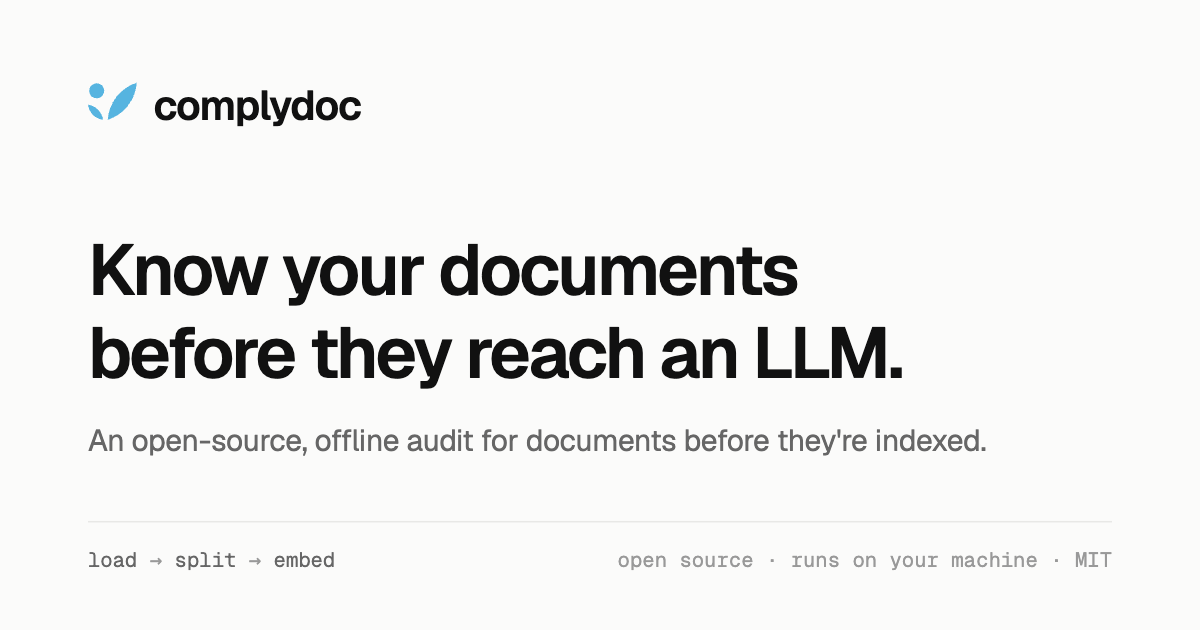
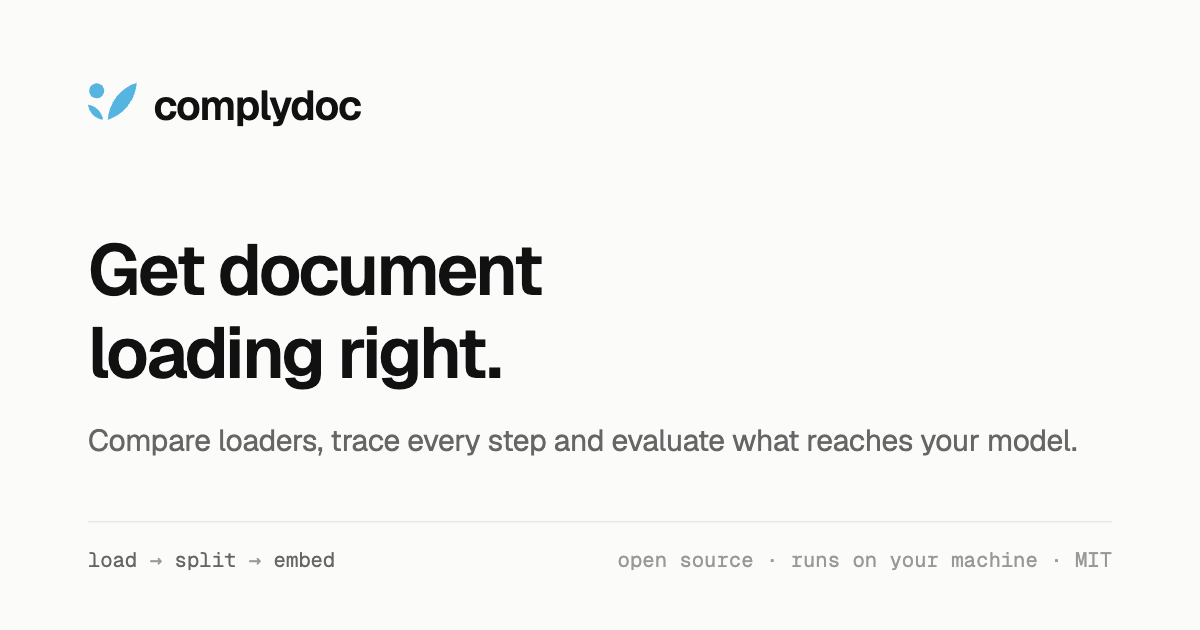
Say get document loading right instead of an offline audit

Changed region(s): [[0.0617, 0.5127, 0.7708, 0.6333], [0.0617, 0.3619, 0.6783, 0.4825], [0.0617, 0.6635, 0.8942, 0.7238]]

diff --git a/landing/index.html b/landing/index.html
@@ -4,28 +4,28 @@
     <meta charset="UTF-8" />
     <meta name="viewport" content="width=device-width, initial-scale=1" />
     <link rel="icon" href="./favicon.svg" type="image/svg+xml" />
-    <title>complydoc: Know your documents before they reach an LLM</title>
+    <title>complydoc: Get document loading right</title>
     <meta
       name="description"
-      content="An open-source, offline audit for documents before they're indexed. Diff your loaders, catch hidden text and personal data, and gate it in CI."
+      content="Compare loaders, trace every step and evaluate what reaches your model. Catch hidden text and personal data, and gate it in CI."
     />
     <meta property="og:type" content="website" />
     <meta property="og:site_name" content="complydoc" />
-    <meta property="og:title" content="complydoc: Know your documents before they reach an LLM" />
+    <meta property="og:title" content="complydoc: Get document loading right" />
     <meta
       property="og:description"
-      content="An open-source, offline audit for documents before they're indexed. Diff your loaders, catch hidden text and personal data, and gate it in CI."
+      content="Compare loaders, trace every step and evaluate what reaches your model. Catch hidden text and personal data, and gate it in CI."
     />
     <meta property="og:url" content="https://complydoc.github.io/complydoc/" />
     <meta property="og:image" content="https://complydoc.github.io/complydoc/og.png" />
     <meta property="og:image:width" content="1200" />
     <meta property="og:image:height" content="630" />
-    <meta property="og:image:alt" content="complydoc. Know your documents before they reach an LLM." />
+    <meta property="og:image:alt" content="complydoc. Get document loading right." />
     <meta name="twitter:card" content="summary_large_image" />
-    <meta name="twitter:title" content="complydoc: Know your documents before they reach an LLM" />
+    <meta name="twitter:title" content="complydoc: Get document loading right" />
     <meta
       name="twitter:description"
-      content="An open-source, offline audit for documents before they're indexed. Diff your loaders, catch hidden text and personal data, and gate it in CI."
+      content="Compare loaders, trace every step and evaluate what reaches your model. Catch hidden text and personal data, and gate it in CI."
     />
     <meta name="twitter:image" content="https://complydoc.github.io/complydoc/og.png" />
     <!-- Set the theme before the first paint, so a dark reader never sees a white flash. -->

diff --git a/landing/src/sections/Hero.tsx b/landing/src/sections/Hero.tsx
@@ -17,10 +17,10 @@ export function Hero() {
         <div className="flex max-w-3xl flex-col items-center gap-6">
           <p className="font-mono text-xs text-muted-foreground">open source · runs on your machine</p>
           <h1 id="hero-title" className="text-4xl font-semibold tracking-tight text-balance md:text-6xl">
-            Know your documents before they reach an LLM.
+            Get document loading right.
           </h1>
           <p className="max-w-2xl text-lg text-pretty text-muted-foreground">
-            An open-source, offline audit for documents before they're indexed.
+            Compare loaders, trace every step and evaluate what reaches your model.
           </p>
           <div className="flex flex-wrap items-center justify-center gap-3">
             <ButtonGroup>

diff --git a/landing/src/sections/Footer.tsx b/landing/src/sections/Footer.tsx
@@ -45,7 +45,7 @@ export function Footer({ home = "" }: { home?: string }) {
           <div className="flex max-w-lg flex-col gap-4">
             <Logo size={22} />
             <p className="text-sm text-muted-foreground">
-              Know your documents before they reach an LLM. Self-hosted for companies today, and a cloud version on
+              Get document loading right. Self-hosted for companies today, and a cloud version on
               its way:{" "}
               <a href={`${home}enterprise/`} className="text-foreground underline underline-offset-4">
                 talk to us

diff --git a/landing/enterprise/index.html b/landing/enterprise/index.html
@@ -20,7 +20,7 @@
     <meta property="og:image" content="https://complydoc.github.io/complydoc/og.png" />
     <meta property="og:image:width" content="1200" />
     <meta property="og:image:height" content="630" />
-    <meta property="og:image:alt" content="complydoc. Know your documents before they reach an LLM." />
+    <meta property="og:image:alt" content="complydoc. Get document loading right." />
     <meta name="twitter:card" content="summary_large_image" />
     <meta name="twitter:title" content="complydoc for companies: self-hosted, with a cloud version on its way" />
     <meta

diff --git a/landing/contributors/index.html b/landing/contributors/index.html
@@ -20,7 +20,7 @@
     <meta property="og:image" content="https://complydoc.github.io/complydoc/og.png" />
     <meta property="og:image:width" content="1200" />
     <meta property="og:image:height" content="630" />
-    <meta property="og:image:alt" content="complydoc. Know your documents before they reach an LLM." />
+    <meta property="og:image:alt" content="complydoc. Get document loading right." />
     <meta name="twitter:card" content="summary_large_image" />
     <meta name="twitter:title" content="complydoc contributors" />
     <meta

diff --git a/brand/og/gen.py b/brand/og/gen.py
@@ -27,7 +27,7 @@ SANS = "Geist, 'Helvetica Neue', Helvetica, Arial, sans-serif"
 MONO = "'Geist Mono', ui-monospace, Menlo, monospace"
 # The full descriptor is two sentences. The second does not fit this line at a
 # readable size, so the card keeps the first.
-DESCRIPTOR = "An open-source, offline audit for documents before they're indexed."
+DESCRIPTOR = "Compare loaders, trace every step and evaluate what reaches your model."
 
 
 def svg(theme: str, width: int, height: int) -> str:
@@ -39,11 +39,11 @@ def svg(theme: str, width: int, height: int) -> str:
         return value * height / 640
 
     mark = 0.6875 * scale  # the mark is 44px tall on the 1280-wide card
-    return f'''<svg xmlns="http://www.w3.org/2000/svg" viewBox="0 0 {width} {height}" width="{width}" height="{height}" role="img" aria-label="complydoc: Know your documents before they reach an LLM.">
+    return f'''<svg xmlns="http://www.w3.org/2000/svg" viewBox="0 0 {width} {height}" width="{width}" height="{height}" role="img" aria-label="complydoc: Get document loading right.">
   <rect width="{width}" height="{height}" fill="{c['bg']}"/>
   <g transform="translate({margin} {y(84)})"><path fill="{c['g']}" fill-rule="evenodd" transform="scale({mark * 0.9:.4f}) translate(-9 -20)" d="{MARK}"/>
   <text x="{70 * scale:.1f}" y="{40 * scale:.1f}" fill="{c['ink']}" font-size="{44 * scale:.1f}" font-weight="600" font-family="{SANS}" letter-spacing="-1">complydoc</text></g>
-  <text x="{margin}" y="{y(300)}" fill="{c['ink']}" font-size="{76 * scale:.1f}" font-weight="600" font-family="{SANS}" letter-spacing="-2.5"><tspan x="{margin}">Know your documents</tspan><tspan x="{margin}" dy="{88 * scale:.1f}">before they reach an LLM.</tspan></text>
+  <text x="{margin}" y="{y(300)}" fill="{c['ink']}" font-size="{76 * scale:.1f}" font-weight="600" font-family="{SANS}" letter-spacing="-2.5"><tspan x="{margin}">Get document</tspan><tspan x="{margin}" dy="{88 * scale:.1f}">loading right.</tspan></text>
   <text x="{margin}" y="{y(458)}" fill="{c['mu']}" font-size="{32 * scale:.1f}" font-weight="400" font-family="{SANS}" letter-spacing="-0.3">{DESCRIPTOR}</text>
   <line x1="{margin}" y1="{y(530)}" x2="{width - margin}" y2="{y(530)}" stroke="{c['br']}" stroke-width="1.5"/>
   <text x="{margin}" y="{y(576)}" font-size="{22 * scale:.1f}" font-family="{MONO}" fill="{c['mu']}">load <tspan fill="{c['fa']}">→</tspan> split <tspan fill="{c['fa']}">→</tspan> embed</text>

diff --git a/README.md b/README.md
@@ -4,8 +4,8 @@
     <img alt="complydoc" src="https://raw.githubusercontent.com/complydoc/complydoc/main/.github/images/logo-light.svg" width="42%">
   </picture>
 
-  <h3>Know your documents before they reach an LLM.</h3>
-  <p>An open-source, offline audit for documents before they're indexed.</p>
+  <h3>Get document loading right.</h3>
+  <p>Compare loaders, trace every step and evaluate what reaches your model.</p>
 
   <a href="https://pypi.org/project/complydoc/"><img src="https://img.shields.io/pypi/v/complydoc?color=56b4e0&label=pypi" alt="PyPI"></a>
   <a href="https://github.com/complydoc/complydoc/actions/workflows/checks.yml"><img src="https://github.com/complydoc/complydoc/actions/workflows/checks.yml/badge.svg?branch=main" alt="Tests"></a>

diff --git a/landing/README.md b/landing/README.md
@@ -1,8 +1,8 @@
 # complydoc landing page
 
-The page that introduces complydoc to AI engineers and researchers: an open-source,
-offline audit for documents before they're indexed. Diff your loaders, catch hidden
-text and personal data, and gate it in CI. It is a static site on the viewer's stack
+The page that introduces complydoc to AI engineers and researchers: get document
+loading right. Compare loaders, trace every step and evaluate what reaches your model,
+catch hidden text and personal data, and gate it in CI. It is a static site on the viewer's stack
 and theme (React, Tailwind v4, shadcn/ui), so the two look like one product.
 
 ```bash

diff --git a/src/complydoc/CHANGELOG.md b/src/complydoc/CHANGELOG.md
@@ -5,6 +5,14 @@ way of using complydoc, such as a command, or for a breaking change to the repor
 a config key, which the release then says. `schema_version` in the JSON is versioned
 separately.
 
+## Unreleased
+
+### Changed
+
+- complydoc's line is now "Get document loading right. Compare loaders, trace every step
+  and evaluate what reaches your model." on PyPI, the README, the landing page, the
+  documentation and the share cards.
+
 ## [0.7.13] — 2026-11-17
 
 The viewer gets one palette, a dashboard of framed panels and a way to add documents from
